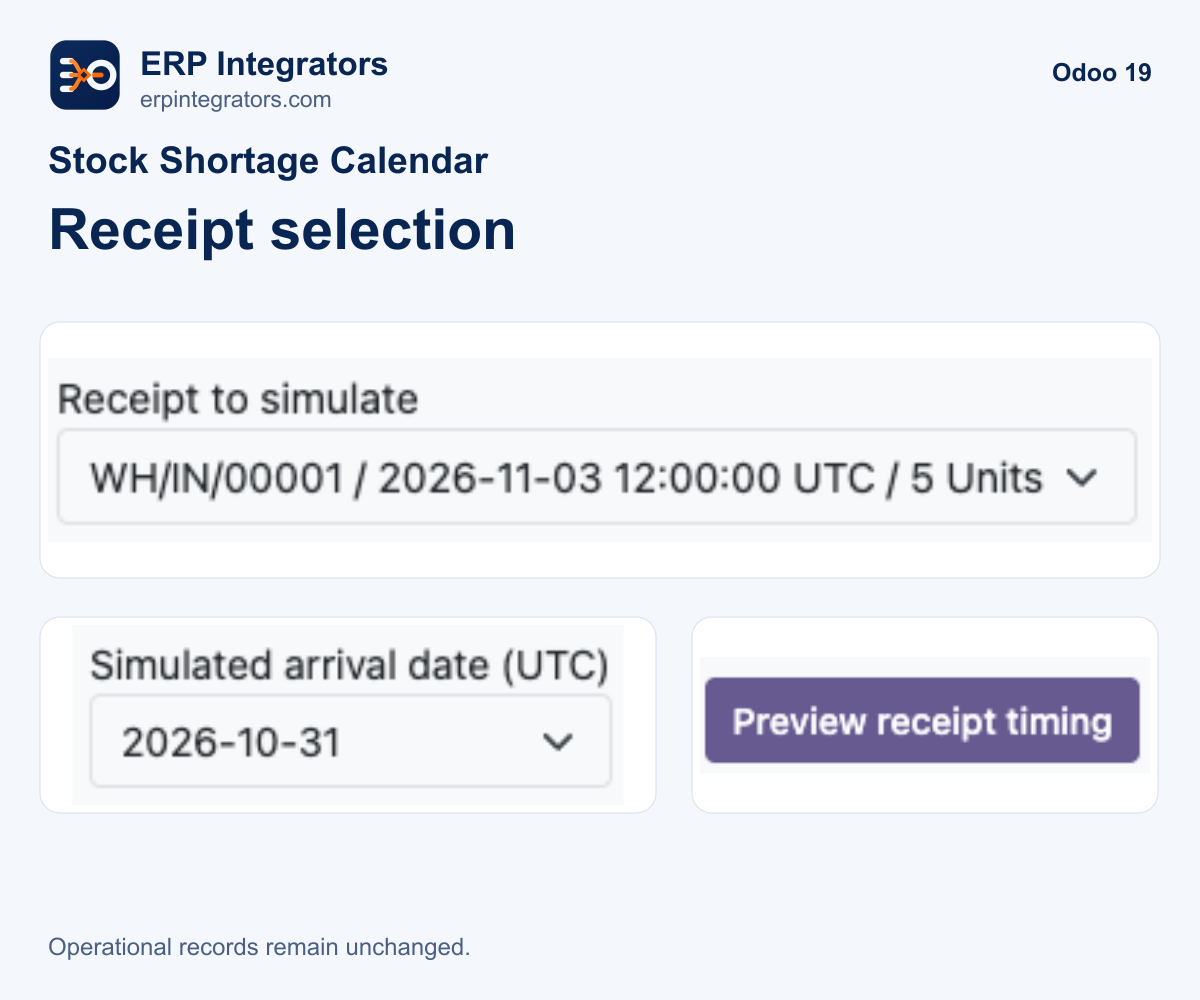
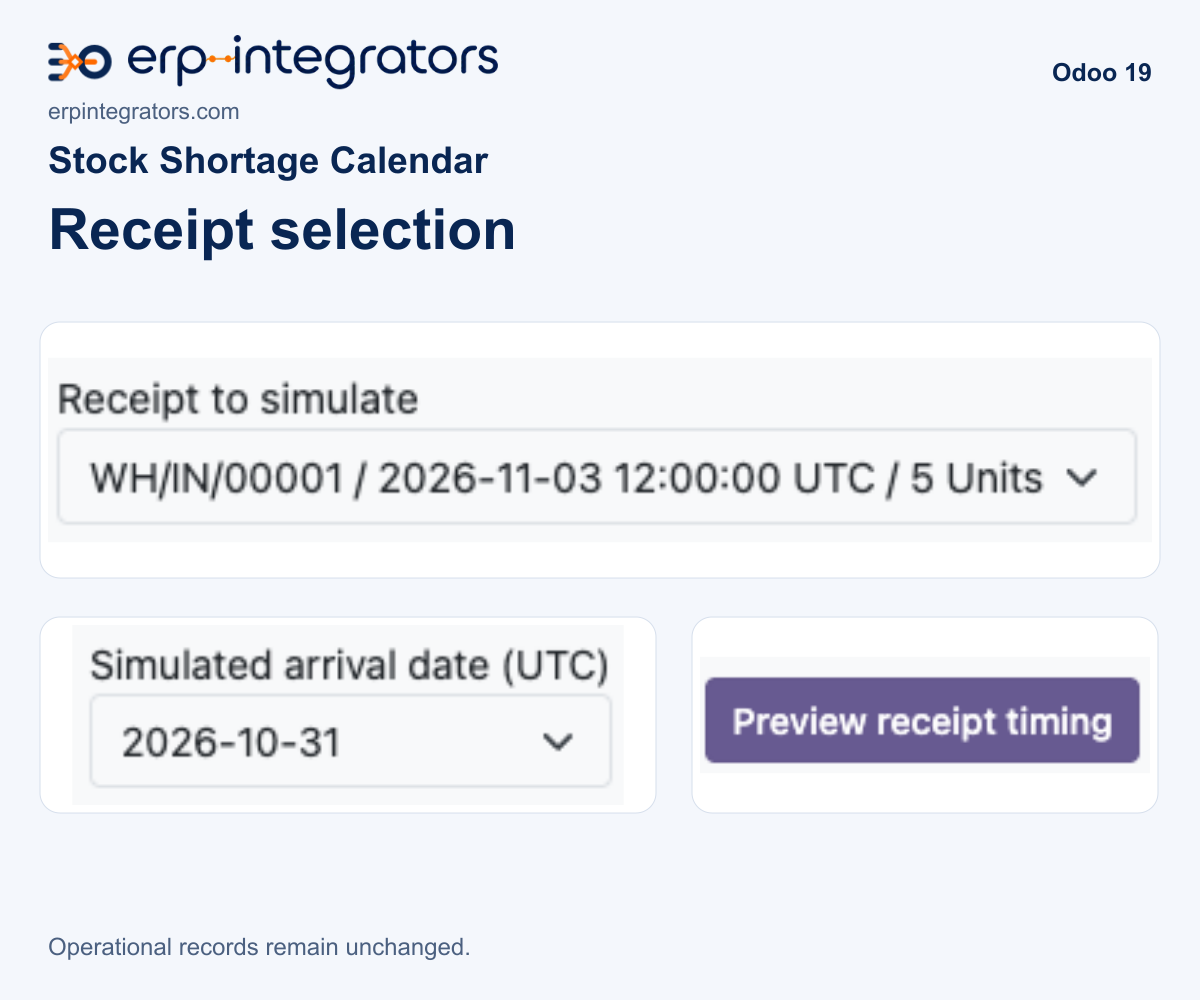
Apply the shared marketplace cover and connected wordmark

Changed region(s): [[0.0308, 0.031, 0.4317, 0.124]]

diff --git a/erpintegrators_daily_stock_matrix/static/description/index.html b/erpintegrators_daily_stock_matrix/static/description/index.html
@@ -1,5 +1,5 @@
 <section class="container py-4" style="font-family:Arial,sans-serif;color:#092653;max-width:1100px;margin:0 auto;padding:24px">
-  <div class="d-flex align-items-center mb-4" style="color:#092653"><img src="logo.png" width="64" height="64" alt="ERP Integrators" class="mr-3"/><div><p class="mb-1" style="font-size:24px;font-weight:600">ERP Integrators</p><p class="mb-0">erpintegrators.com | Solvync Inc.</p></div></div>
+  <div class="mb-4"><img src="logo.png" width="450" height="56" alt="ERP Integrators" style="display:block;width:450px;max-width:100%;height:auto"/><p class="mt-2 mb-0">erpintegrators.com | Solvync Inc.</p></div>
   <h1>Stock Shortage Calendar</h1>
   <p>Review daily stock forecasts, assign shortage follow-ups, compare saved changes and preview receipt timing.</p>
   <p>Odoo 19 Community and Enterprise | Inventory required | LGPL-3</p>
